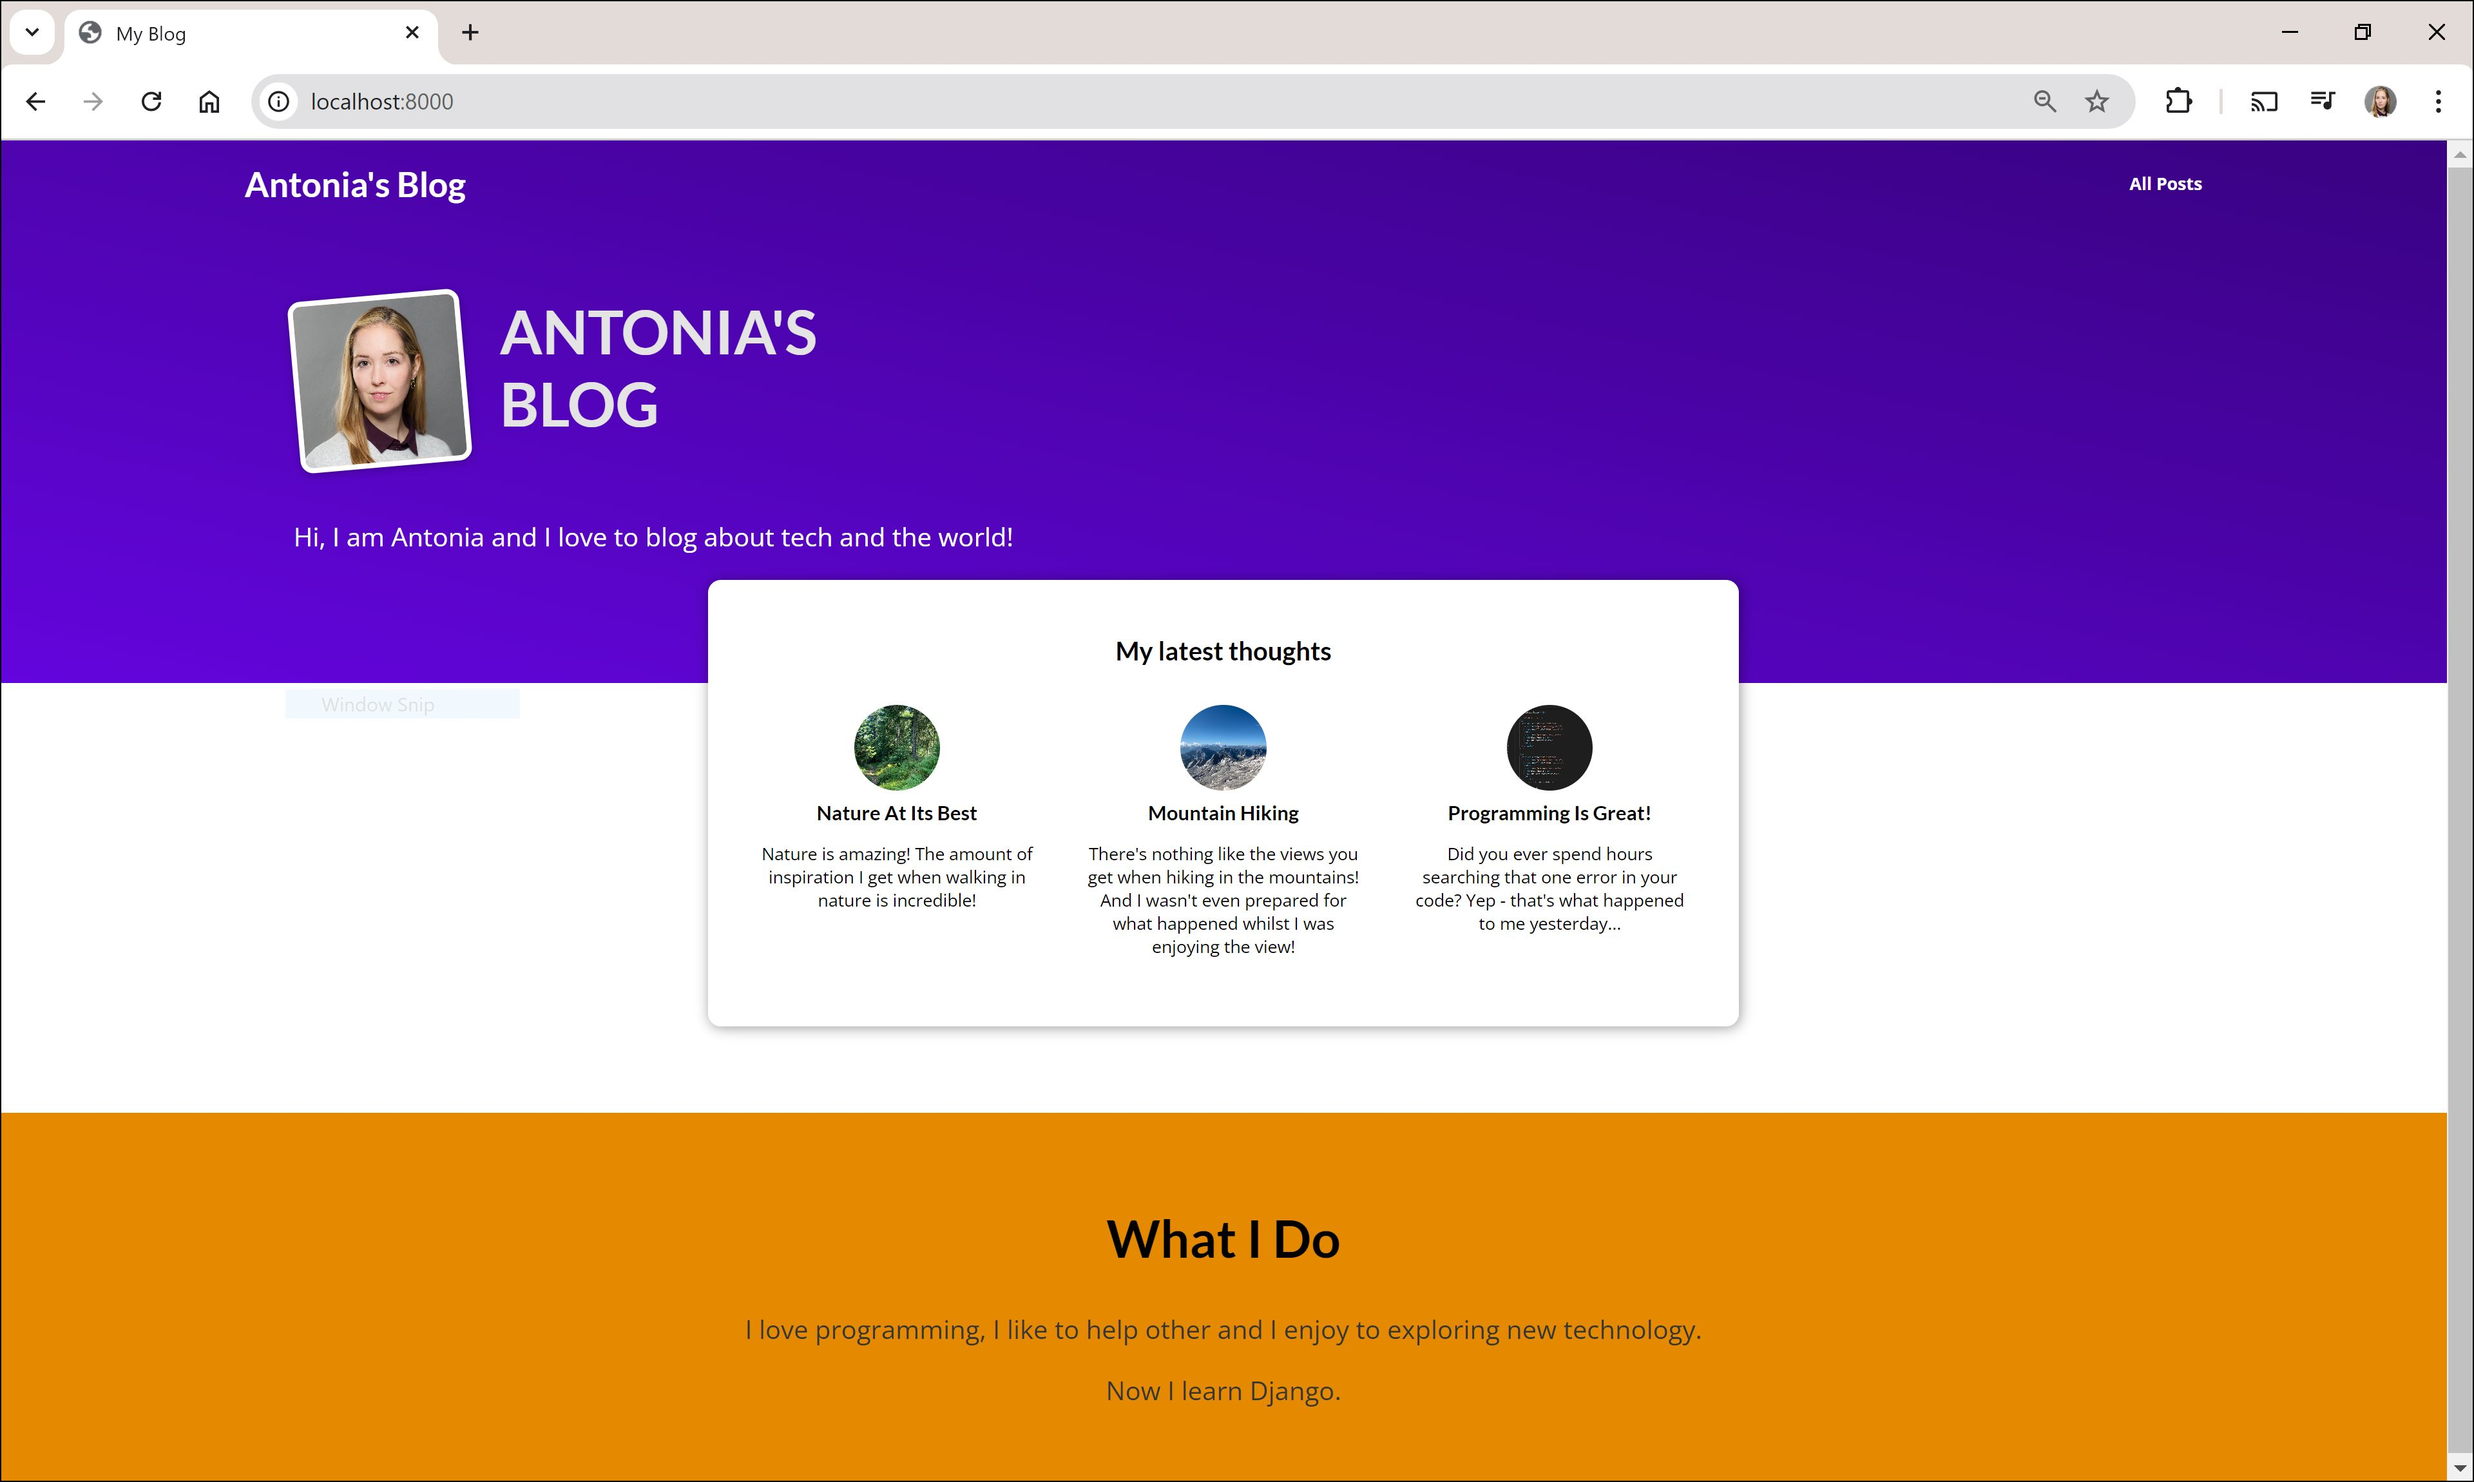
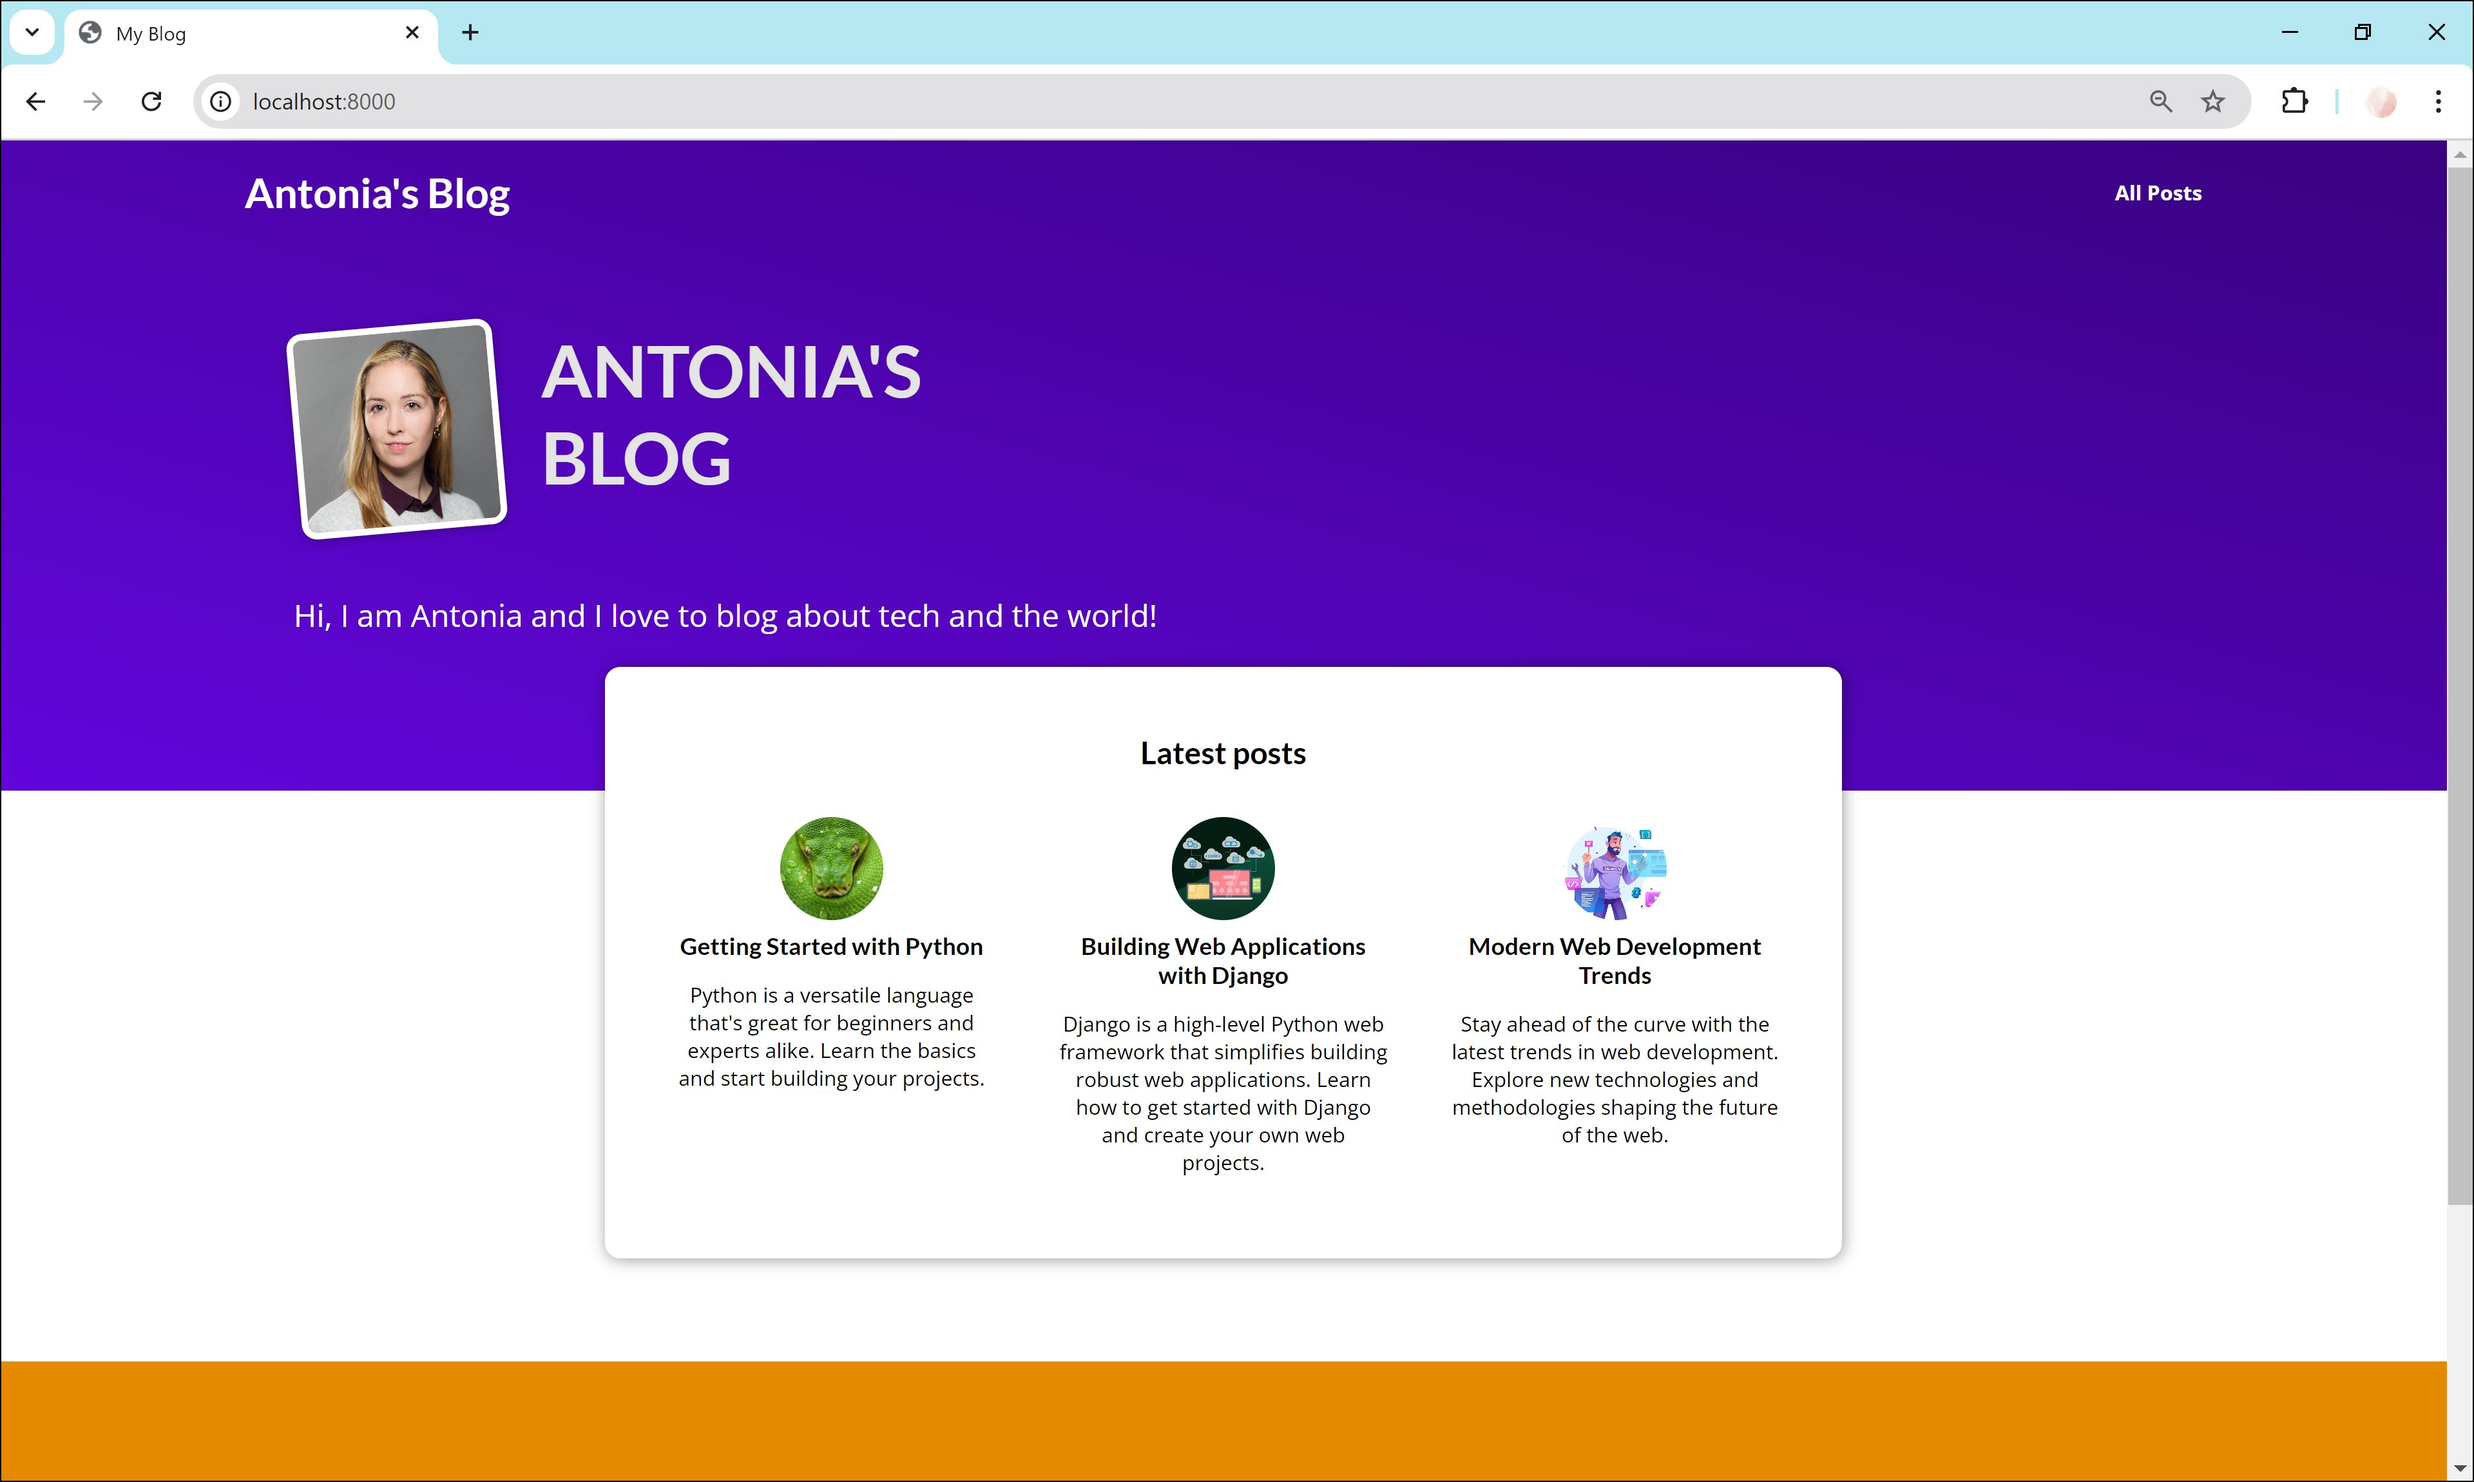
Refactoring post data

diff --git a/blog/templates/blog/index.html b/blog/templates/blog/index.html
@@ -18,7 +18,7 @@
 </section>
 
 <section id="latest-posts">
-  <h2>My latest thoughts</h2>
+  <h2>Latest posts</h2>
   <ul>
       {% for post in posts %}
           {% include "blog/includes/post-preview.html"%}

diff --git a/blog/data.py b/blog/data.py
@@ -1,0 +1,49 @@
+from datetime import date
+
+all_posts = [
+    {
+        "slug": "getting-started-with-python",
+        "image": "python.JPG",
+        "author": "Alex Johnson",
+        "date": date(2023, 1, 15),
+        "title": "Getting Started with Python",
+        "excerpt": "Python is a versatile language that's great for beginners and experts alike. Learn the basics and start building your projects.",
+        "content": """
+          Python is known for its readability and simplicity. It's an excellent choice for anyone new to programming. In this post, we'll explore the basics of Python, including variables, control structures, and functions. You'll also get an overview of how to set up your development environment and write your first Python script.
+
+          Python's extensive standard library and supportive community make it a powerful tool for many types of projects, from web development to data science. By mastering Python, you'll gain the skills to build a wide range of applications and tools.
+
+          Whether you're interested in automating tasks, analyzing data, or developing web applications, Python provides a strong foundation to build upon. Follow along as we dive into practical examples and real-world applications of Python programming.
+        """
+    },
+    {
+        "slug": "building-web-applications-with-django",
+        "image": "django.JPG",
+        "author": "Jordan Smith",
+        "date": date(2023, 2, 5),
+        "title": "Building Web Applications with Django",
+        "excerpt": "Django is a high-level Python web framework that simplifies building robust web applications. Learn how to get started with Django and create your own web projects.",
+        "content": """
+          Django is a powerful web framework for Python that encourages rapid development and clean, pragmatic design. In this post, we'll walk through the process of setting up a Django project from scratch. You'll learn how to create models, views, and templates, and how to handle URL routing and database migrations.
+
+          We'll cover essential Django concepts such as the Model-View-Template (MVT) architecture and how Django's built-in features can help you build secure and scalable web applications. By the end of this guide, you'll have a solid understanding of how to develop and deploy a Django-powered website.
+
+          Django's comprehensive documentation and thriving community make it a great choice for both beginners and experienced developers. Join us as we explore the capabilities of Django and build a fully functional web application.
+        """
+    },
+    {
+        "slug": "modern-web-development-trends",
+        "image": "webdev.jpg",
+        "author": "Taylor Lee",
+        "date": date(2023, 3, 12),
+        "title": "Modern Web Development Trends",
+        "excerpt": "Stay ahead of the curve with the latest trends in web development. Explore new technologies and methodologies shaping the future of the web.",
+        "content": """
+          The web development landscape is constantly evolving, with new technologies and trends emerging every year. In this post, we'll explore some of the key trends that are shaping modern web development, including progressive web apps, serverless architectures, and the rise of JAMstack.
+
+          We'll also discuss the impact of front-end frameworks like React and Vue.js, as well as the growing importance of web performance and user experience. By staying informed about these trends, you'll be better equipped to build cutting-edge web applications that meet the needs of today's users.
+
+          As technology continues to advance, it's important to adapt and embrace new tools and techniques. This post will help you understand how these trends can be applied to your projects and how to stay current in the fast-paced world of web development.
+        """
+    }
+]

diff --git a/blog/views.py b/blog/views.py
@@ -1,71 +1,5 @@
 from django.shortcuts import render
-from datetime import date
-
-all_posts = [
-    {
-        "slug": "hike-in-the-mountains",
-        "image": "mountains.jpg",
-        "author": "Maximilian",
-        "date": date(2021, 7, 21),
-        "title": "Mountain Hiking",
-        "excerpt": "There's nothing like the views you get when hiking in the mountains! And I wasn't even prepared for what happened whilst I was enjoying the view!",
-        "content": """
-          Lorem ipsum dolor sit amet consectetur adipisicing elit. Officiis nobis
-          aperiam est praesentium, quos iste consequuntur omnis exercitationem quam
-          velit labore vero culpa ad mollitia? Quis architecto ipsam nemo. Odio.
-
-          Lorem ipsum dolor sit amet consectetur adipisicing elit. Officiis nobis
-          aperiam est praesentium, quos iste consequuntur omnis exercitationem quam
-          velit labore vero culpa ad mollitia? Quis architecto ipsam nemo. Odio.
-
-          Lorem ipsum dolor sit amet consectetur adipisicing elit. Officiis nobis
-          aperiam est praesentium, quos iste consequuntur omnis exercitationem quam
-          velit labore vero culpa ad mollitia? Quis architecto ipsam nemo. Odio.
-        """
-    },
-    {
-        "slug": "programming-is-fun",
-        "image": "coding.jpg",
-        "author": "Maximilian",
-        "date": date(2022, 3, 10),
-        "title": "Programming Is Great!",
-        "excerpt": "Did you ever spend hours searching that one error in your code? Yep - that's what happened to me yesterday...",
-        "content": """
-          Lorem ipsum dolor sit amet consectetur adipisicing elit. Officiis nobis
-          aperiam est praesentium, quos iste consequuntur omnis exercitationem quam
-          velit labore vero culpa ad mollitia? Quis architecto ipsam nemo. Odio.
-
-          Lorem ipsum dolor sit amet consectetur adipisicing elit. Officiis nobis
-          aperiam est praesentium, quos iste consequuntur omnis exercitationem quam
-          velit labore vero culpa ad mollitia? Quis architecto ipsam nemo. Odio.
-
-          Lorem ipsum dolor sit amet consectetur adipisicing elit. Officiis nobis
-          aperiam est praesentium, quos iste consequuntur omnis exercitationem quam
-          velit labore vero culpa ad mollitia? Quis architecto ipsam nemo. Odio.
-        """
-    },
-    {
-        "slug": "into-the-woods",
-        "image": "woods.jpg",
-        "author": "Maximilian",
-        "date": date(2020, 8, 5),
-        "title": "Nature At Its Best",
-        "excerpt": "Nature is amazing! The amount of inspiration I get when walking in nature is incredible!",
-        "content": """
-          Lorem ipsum dolor sit amet consectetur adipisicing elit. Officiis nobis
-          aperiam est praesentium, quos iste consequuntur omnis exercitationem quam
-          velit labore vero culpa ad mollitia? Quis architecto ipsam nemo. Odio.
-
-          Lorem ipsum dolor sit amet consectetur adipisicing elit. Officiis nobis
-          aperiam est praesentium, quos iste consequuntur omnis exercitationem quam
-          velit labore vero culpa ad mollitia? Quis architecto ipsam nemo. Odio.
-
-          Lorem ipsum dolor sit amet consectetur adipisicing elit. Officiis nobis
-          aperiam est praesentium, quos iste consequuntur omnis exercitationem quam
-          velit labore vero culpa ad mollitia? Quis architecto ipsam nemo. Odio.
-        """
-    }
-]
+from .data import all_posts
 
 
 def get_date(post):
